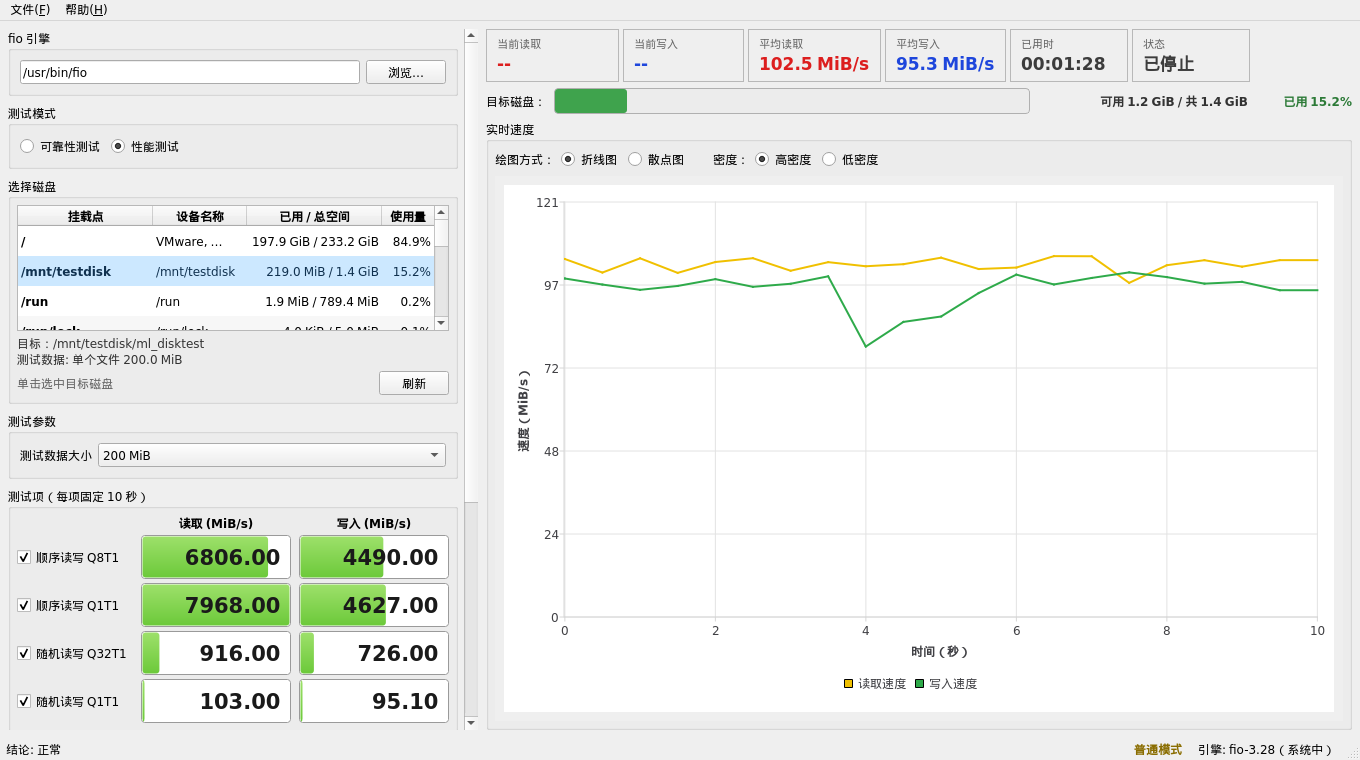
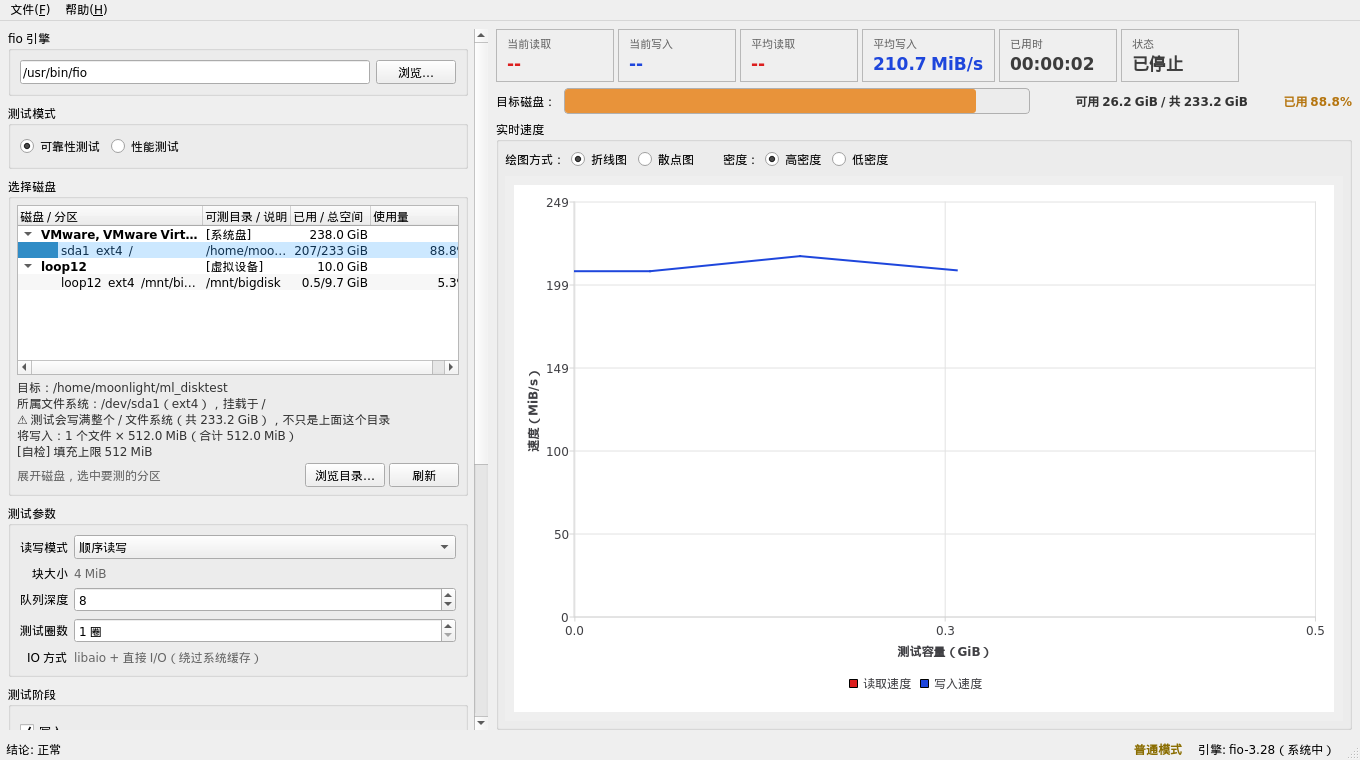
change charts and disk list

diff --git a/src/mainwindow.cpp b/src/mainwindow.cpp
@@ -502,7 +502,10 @@ void MainWindow::buildDrivePanel(QWidget *driveBox)
         "QTreeWidget::item:selected { background: #cce8ff; color: #10314f; }"
         "QTreeWidget::item:selected:active { background: #b6dcff; color: #10314f; }"));
     m_driveTree->header()->setSectionResizeMode(0, QHeaderView::Interactive);
-    m_driveTree->header()->resizeSection(0, 148);
+    // 185：去掉 "PhysicalDriveN" 前缀之后，第一列装的就是型号本身，
+    // 实测常见型号（"Predator SSD GM7000 1TB" / "UMIS RPJYJ1T24MLR1HWY"）
+    // 连树形缩进大约要 170~185 px 才不被省略号截掉。仍然是 Interactive，用户可以拖。
+    m_driveTree->header()->resizeSection(0, 185);
     m_driveTree->header()->setSectionResizeMode(1, QHeaderView::Stretch);
     m_driveTree->header()->setSectionResizeMode(2, QHeaderView::ResizeToContents);
     m_driveTree->header()->setSectionResizeMode(3, QHeaderView::ResizeToContents);
@@ -1011,7 +1014,9 @@ bool MainWindow::refreshDriveList(bool startup)
     for (const DiskEntry &disk : disks) {
         // ---- 第一层：物理磁盘，只当分组标题 ----
         auto *diskItem = new QTreeWidgetItem(m_driveTree);
-        diskItem->setText(0, disk.nameLine());
+        // 第一列只放型号：设备名（PhysicalDrive0 / sda）对用户没意义，
+        // 却会把本来就不宽的第一列占掉一大半，把型号挤成省略号。
+        diskItem->setText(0, disk.modelLine());
         // 标记单独占一列：第一列宽度紧，写在里面会被省略号吃掉，
         // 而"[系统盘]"恰恰是防止顺手把系统盘写掉的那一眼。
         QStringList diskTags;
@@ -1026,7 +1031,10 @@ bool MainWindow::refreshDriveList(bool startup)
         diskFont.setBold(true);
         diskItem->setFont(0, diskFont);
 
+        // 设备名挪到悬停提示里 —— 要和磁盘管理 / lsblk 对照时看这里
         QStringList diskTips;
+        if (!disk.kernelName.isEmpty())
+            diskTips << kVolumeDeviceFmt.arg(disk.kernelName);
         if (!disk.model.isEmpty())
             diskTips << disk.model;
         if (disk.isSystemDisk)
@@ -3956,17 +3964,16 @@ void MainWindow::writeSelfTestReport()
     const QIcon windowIcon = QApplication::windowIcon();
     const bool iconGuard = !windowIcon.isNull() && !windowIcon.availableSizes().isEmpty();
 
-    // 折线抽稀步长的分档必须精确（<128GiB → 3，128GiB~1TiB → 5，≥1TiB → 10）
+    // 折线抽稀步长的分档必须精确（<256GiB → 5，256GiB~1TiB → 15，≥1TiB → 30）
     constexpr qint64 kGiB = 1024LL * 1024 * 1024;
     constexpr qint64 kTiB = 1024LL * kGiB;
     const struct { qint64 bytes; int want; QString note; } stepProbes[] = {
-        {100LL * kGiB,        3,  QStringLiteral("100 GiB")},
-        {127LL * kGiB,        3,  QStringLiteral("127 GiB")},
-        {128LL * kGiB,        5,  kReportStepProbe128GiB},
-        {256LL * kGiB,        5,  QStringLiteral("256 GiB")},
-        {1023LL * kGiB,       5,  QStringLiteral("1023 GiB")},
-        {1LL * kTiB,          10, kReportStepProbe1TiB},
-        {4LL * kTiB,          10, QStringLiteral("4 TiB")},
+        {100LL * kGiB,        5,  QStringLiteral("100 GiB")},
+        {255LL * kGiB,        5,  QStringLiteral("255 GiB（下边界前一档）")},
+        {256LL * kGiB,        15, kReportStepProbe256GiB},
+        {1023LL * kGiB,       15, QStringLiteral("1023 GiB")},
+        {1LL * kTiB,          30, kReportStepProbe1TiB},
+        {4LL * kTiB,          30, QStringLiteral("4 TiB")},
     };
     bool stepGuard = true;
     QStringList stepLines;

diff --git a/src/driveinfo.h b/src/driveinfo.h
@@ -63,9 +63,16 @@ struct DiskEntry
     /// 至少有一个文件系统能被测（否则整块盘在列表里就没有意义）。
     bool testable() const;
     /// "内核名 + 型号"，例如 "nvme0n1  Samsung SSD 990 PRO 1TB"。
-    /// 列表里第一列用这个 —— 标记（[系统盘] 之类）单独占一列，
-    /// 否则列宽一紧就先被省略号吃掉，而那恰恰是最该看见的东西。
+    /// **给自检报告用**（那边不缺宽度，设备名方便和磁盘管理工具对照）。
     QString nameLine() const;
+    /// 列表里磁盘那一行显示的东西：**只给型号**。
+    ///
+    /// 内核名（Windows 的 "PhysicalDrive0"、Linux 的 "sda"）不进列表 ——
+    /// "PhysicalDrive0" 对用户是个看不懂的 API 名字，却占掉第一列一大半宽度，
+    /// 把真正有用的型号挤成省略号。它现在只在鼠标悬停的 tooltip 里出现。
+    ///
+    /// 拿不到型号时只能退回内核名，否则这一行就整个空白。
+    QString modelLine() const;
     /// nameLine() 再加上 [系统盘] / [虚拟设备] 这些标记，给自检报告用（那边不缺宽度）。
     QString displayLine() const;
 };

diff --git a/src/main.cpp b/src/main.cpp
@@ -29,16 +29,16 @@
 int main(int argc, char *argv[])
 {
     QApplication app(argc, argv);
-    app.setApplicationName(QStringLiteral("qtfiogui"));
+    app.setApplicationName(QStringLiteral("disktest"));
 
     // 版本号只有 CMakeLists.txt 的 project(... VERSION) 一个来源，
     // 别在这里写死——写死就会出现"标题栏 2.2.7、--version 输出 2.0.0"这种不一致。
     app.setApplicationVersion(kAppVersion);
-    app.setOrganizationName(QStringLiteral("qtfiogui"));
+    app.setOrganizationName(QStringLiteral("disktest"));
     app.setWindowIcon(QIcon(QStringLiteral(":/logo-window.png")));
 
     // 结果 CSV 解析器的纯逻辑自检：不开窗口、不碰磁盘、不跑 fio。
-    // 写代码时用 `qtfiogui.exe --selftest-parse` 就能验规则，不用整盘测试。
+    // 写代码时用 `disktest.exe --selftest-parse` 就能验规则，不用整盘测试。
     if (argc > 1 && QString::fromLocal8Bit(argv[1]) == QLatin1String("--selftest-parse")) {
         QStringList lines;
         const bool ok = RunData::runParserSelfTest(&lines);

diff --git a/src/speedchart.cpp b/src/speedchart.cpp
@@ -329,13 +329,17 @@ int SpeedChart::autoStepForBytes(qint64 totalBytes)
 {
     // 按实际要写入/读取的数据量决定折线抽稀步长。
     // 盘越大点数越多，抽得越狠；散点图和 CSV 始终是全量。
+    //
+    //   不到 256 GiB        每 5 个点画 1 个
+    //   256 GiB ~ 1 TiB     每 15 个点画 1 个
+    //   1 TiB 及以上        每 30 个点画 1 个
     constexpr qint64 kGiB = 1024LL * 1024 * 1024;
     constexpr qint64 kTiB = 1024LL * kGiB;
     if (totalBytes >= kTiB)
-        return 10;
-    if (totalBytes >= 128 * kGiB)
-        return 5;
-    return 3;
+        return 30;
+    if (totalBytes >= 256 * kGiB)
+        return 15;
+    return 5;
 }
 void SpeedChart::setTimeAxis(double seconds)
 {

diff --git a/src/mainwindow.h b/src/mainwindow.h
@@ -71,7 +71,7 @@ public:
     void setSelfTestScatter(bool scatter);
     /// 自检时只跑读取阶段（用来验证「有文件才能只读」这条路径）。
     void setSelfTestReadOnly(bool readOnly);
-    /// 自检：把折线图切到低密度（每 3 点画 1 点）。
+    /// 自检：把折线图切到低密度（按数据量自动抽稀）。
     void setSelfTestLowDensity(bool low);
     /// 自检：测试圈数。
     void setSelfTestRounds(int rounds);

diff --git a/src/driveinfo.cpp b/src/driveinfo.cpp
@@ -532,6 +532,12 @@ QString DiskEntry::nameLine() const
     return kernelName + QStringLiteral("  ") + model;
 }
 
+QString DiskEntry::modelLine() const
+{
+    // 型号是这一行唯一该显示的东西；没有型号才退回内核名，免得整行空白
+    return model.isEmpty() ? kernelName : model;
+}
+
 QString DiskEntry::displayLine() const
 {
     QString line = nameLine();

diff --git a/docs/readme.md b/docs/readme.md
@@ -105,19 +105,21 @@
 
 | 数据量 | 步长 |
 | --- | --- |
-| < 128 GiB | 每 **3** 个点画 1 个 |
-| 128 GiB ~ 1 TiB | 每 **5** 个点画 1 个 |
-| ≥ 1 TiB | 每 **10** 个点画 1 个 |
+| < 256 GiB | 每 **5** 个点画 1 个 |
+| 256 GiB ~ 1 TiB | 每 **15** 个点画 1 个 |
+| ≥ 1 TiB | 每 **30** 个点画 1 个 |
 
 界面上的步长提示已经不显示了（需求：移除低密度提示），分档只影响曲线的疏密。
 自检对分档边界有精确断言：
 
 ```
 折线抽稀步长（自动分档）: PASS
-    127 GiB → 每 3 个点画 1 个  OK
-    128 GiB（下边界） → 每 5 个点画 1 个  OK
-    1023 GiB → 每 5 个点画 1 个  OK
-    1 TiB（下边界） → 每 10 个点画 1 个  OK
+    100 GiB → 每 5 个点画 1 个  OK
+    255 GiB（下边界前一档） → 每 5 个点画 1 个  OK
+    256 GiB（下边界） → 每 15 个点画 1 个  OK
+    1023 GiB → 每 15 个点画 1 个  OK
+    1 TiB（下边界） → 每 30 个点画 1 个  OK
+    4 TiB → 每 30 个点画 1 个  OK
 ```
 
 实测同一轮测试：
@@ -315,7 +317,7 @@
 - 「帮助 → 关于」：版本、作者、联系作者、**编译时间**、构建环境（Qt 版本 /
   提权或普通模式），下面接测试流程说明。
 - 版本号只有 **`CMakeLists.txt` 里 `project(... VERSION x.y.z)` 一个来源**，
-  编译期以 `QTFIOGUI_VERSION` 宏传进代码，标题栏和「关于」都取自它，改一处即可。
+  编译期以 `DISKTEST_VERSION` 宏传进代码，标题栏和「关于」都取自它，改一处即可。
 - 作者与联系方式是 `src/uitext.h` 顶部的 `kAuthor` / `kContact`，
   **默认是占位符，请改成你自己的**。
 
@@ -498,7 +500,7 @@ CSV 里存的是**整轮**（写入 + 读取）的数据，不是只有最后一
 解析规则本身有独立的纯逻辑自检（不开窗口、不碰磁盘、不跑 fio）：
 
 ```
-build\qtfiogui.exe --selftest-parse
+build\disktest.exe --selftest-parse
 ```
 
 它覆盖：性能格式、老格式兼容、`item/pass` 归位、分阶段平均值取值、
@@ -715,7 +717,7 @@ build.bat help                               全部用法
 **机制**：这台机器上的 `build.ninja` 里，编译规则是
 
 ```
-build CMakeFiles\qtfiogui.dir\src\mainwindow.cpp.obj: CXX_COMPILER__qtfiogui_unscanned_Release ...
+build CMakeFiles\disktest.dir\src\mainwindow.cpp.obj: CXX_COMPILER__disktest_unscanned_Release ...
   deps = gcc
 ```
 
@@ -781,7 +783,7 @@ cmake --build build --target package      # 产出 build\dist
 
 ```
 dist/
-  qtfiogui.exe                主程序（含图标）
+  disktest.exe                主程序（含图标）
   Qt6Core/Gui/Widgets/Charts/... .dll
   platforms/qwindows.dll      平台插件（少了它 Qt 起不来）
   styles/ imageformats/ iconengines/ networkinformation/ tls/ generic/
@@ -806,7 +808,7 @@ Qt 是 `/MD` 构建的，所以本程序必须跟着动态链接 CRT（不能静
 sudo apt install build-essential cmake ninja-build qt6-base-dev libqt6charts6-dev fio
 cmake -S . -B build-linux -G Ninja -DCMAKE_BUILD_TYPE=Release
 cmake --build build-linux -j
-./build-linux/qtfiogui
+./build-linux/disktest
 ```
 
 | 依赖 | 要求 | Ubuntu 22.04 (jammy) 里的包 |
@@ -835,7 +837,7 @@ cmake --build build-linux -j
 没有图形界面的机器（服务器 / CI）上跑自检：
 
 ```bash
-QT_QPA_PLATFORM=offscreen ./build-linux/qtfiogui --selftest \
+QT_QPA_PLATFORM=offscreen ./build-linux/disktest --selftest \
     --outdir /tmp/st --selftest-target /mnt/testdisk --selftest-fill-limit 200
 ```
 
@@ -991,13 +993,26 @@ btrfs 子卷），而"我想测这块盘"跟它挂在哪儿没有关系。所以
 
 ```
 磁盘 / 分区              可测目录 / 说明    已用 / 总空间   使用量
-▼ sda  VMware, V...     [系统盘]          238.0 GiB
-    sda1  ext4  /        /home/moonli...   198/233 GiB    84.8%
-▼ nvme0n1  Samsung...                     931 GiB
-    nvme0n1p2  ext4  /   /var/tmp          560/931 GiB    60.2%
-  loop12                 [虚拟设备]         1.5 GiB
+▼ VMware, VMware Virtual S   [系统盘]        238.0 GiB
+    sda1  ext4  /            /home/moonli... 198/233 GiB    84.8%
+▼ Samsung SSD 990 PRO 1TB                   931 GiB
+    nvme0n1p2  ext4  /       /var/tmp        560/931 GiB    60.2%
+  loop12                     [虚拟设备]       1.5 GiB
     loop12  ext4  /mnt/testdisk  /mnt/testdisk  0.1/1.4 GiB  6.3%
 ```
+
+**磁盘那一行只显示型号**，设备名（Windows 的 `PhysicalDrive0`、Linux 的 `sda`）
+不进列表 —— 它对用户没意义，却占掉第一列一大半宽度，把型号挤成省略号。
+要和"磁盘管理"或 `lsblk` 对照时，把鼠标停在那一行上：
+
+```
+设备: PhysicalDrive0
+UMIS RPJYJ1T24MLR1HWY
+[系统盘]
+```
+
+（拿不到型号的盘只能退回显示设备名，否则这一行整个是空白。）
+自检报告里仍然是「设备名 + 型号」——那边不缺宽度，而且排查问题时设备名有用。
 
 选中的永远是**文件系统**那一层 —— 本工具只能测文件系统（裸设备一律拒绝）。
 上面那层只是分组标题（不可选），测不了的分区（只读 / 未挂载 / 没有可写目录）
@@ -1157,12 +1172,26 @@ read_bytes: 8044675072     ← 数据明明在
 > 性能测试**不受影响**：它固定单文件（见 `planFilesForSize`），
 > `openfiles` 对它没有意义，job 里也不写这一行。
 
-> **还没做的**：这个改动对"波动到底小了多少"的量化对比。
-> 在开发机上用 256 MiB 的小数据集 + fio 自带的 `--write_bw_log` 试过一次，
-> **结论不可用**：吞吐跑到 2.5~5 GiB/s，说明这点数据整个被盘的缓存吃掉了，
-> 500 ms 的采样间隔比效应本身还大，测出来的是噪声。
-> 要量准得用一块远大于缓存的数据集 + 真实的机械盘 / U 盘，
-> 也就是用户实际遇到波动的场景。
+> **关于"波动到底小了多少"**：三次尝试都没能在测试机上量出差别，结论如实记在这里。
+>
+> 1. 开发机、256 MiB 小数据集 + fio 的 `--write_bw_log`：**作废** ——
+>    吞吐跑到 2.5~5 GiB/s，这点数据整个被盘的缓存吃掉了，采样间隔比效应还大。
+> 2. Ubuntu 上的 10 GiB 回环盘、4 × 2 GiB（数据集远大于内存，采样 500 ms）：
+>    两臂**没有区别**（波动 136% vs 136%，最小采样都掉到 8~24 MiB/s）。
+>    原因：回环设备后端是宿主页缓存 —— fio 的 `O_DIRECT` 落到 loop 驱动之后
+>    又变成了对 backing file 的缓冲写，测到的是宿主的写回行为。
+> 3. 换成真实 ext4（`/home`，`O_DIRECT` 直达块层）、同样 4 × 2 GiB：
+>    仍然**没有区别**（波动 117%~164%，四条曲线的最小采样都一样低）。
+>
+> 也就是说：在这两种存储上，**残余的波动来自平台的周期性停顿**
+> （四条曲线都有，与打开几个文件无关），而不是文件并行度。
+> 这也说得通 —— 交错的写入对**闪存 / 虚拟磁盘**几乎没有代价（没有寻道），
+> 对**机械盘和 U 盘**才会有明显的寻道与缓存抖动，也就是用户实际看到波动的场景。
+>
+> **所以这个改动是否真的压平了曲线，需要在看到波动的那块盘上复测**：
+> 用同一个 job 跑 `fio ... /tmp/ab.fio` 与 `fio --openfiles=1 ... /tmp/ab.fio`，
+> 加 `--write_bw_log=x --log_avg_msec=500`，比较两臂 `x_write_bw.log` 的
+> min/avg/max。在闪存上预期看不到差别，在机械盘上才应该看得到。
 
 ---
 
@@ -1172,7 +1201,7 @@ read_bytes: 8044675072     ← 数据明明在
 只写一小部分就能走完整流程：
 
 ```powershell
-build\qtfiogui.exe --selftest `
+build\disktest.exe --selftest `
     --fio third_party\fio\fio.exe --outdir build\selftest `
     --selftest-target G:/ --selftest-fill-limit 3000
 ```
@@ -1212,7 +1241,7 @@ build\qtfiogui.exe --selftest `
 ## 7. 目录结构
 
 ```
-qtfiogui/
+disktest/
 ├─ LICENSE                  本程序自身的许可证（GPL-3.0 官方原版全文）
 ├─ THIRD-PARTY-NOTICES.md   Qt / fio / MSVC 运行库的许可证说明
 ├─ licenses/                第三方许可证文本（随发布包一起走）
@@ -1264,14 +1293,14 @@ qtfiogui/
 └─ _selftest/               【生成】手工跑自检时的默认输出目录
 ```
 
-**运行时**只需要 `qtfiogui.exe` + Qt DLL + `fio/fio.exe`；`docs/`、`tools/`、`src/` 都不进 `build\dist`。
+**运行时**只需要 `disktest.exe` + Qt DLL + `fio/fio.exe`；`docs/`、`tools/`、`src/` 都不进 `build\dist`。
 `build\dist` 里额外带 `licenses/`（含 `THIRD-PARTY-NOTICES.md`）——**这是分发二进制时必须有的**，
 `build.bat package` 打完包会自动核对，缺了直接报错。
 
 > `third_party/fio/` 里**不含** fio 上游的 `examples/`（55 个样例 `.fio`）。
 > 程序一个都不读，打包时本来就排除，放在仓库里只是噪音；需要看示例去 fio 上游拿。
 
-**运行时**只需要 `qtfiogui.exe` + Qt DLL + `fio/fio.exe`；`docs/`、`tools/`、`src/` 都不进 `build\dist`。
+**运行时**只需要 `disktest.exe` + Qt DLL + `fio/fio.exe`；`docs/`、`tools/`、`src/` 都不进 `build\dist`。
 
 ### 启动状态是固定的，不记忆
 

diff --git a/README.md b/README.md
@@ -34,7 +34,7 @@
 ## 快速开始
 
 1. **下载发布包**，解压到任意目录（路径带中文也没问题）。
-2. 双击 **`qtfiogui.exe`**。
+2. 双击 **`disktest.exe`**。
    不需要另外装 Qt，也不需要装 VC++ 运行库——发布包是自足的。
 3. 在左侧「选择磁盘」列表里展开一块盘，**单击选中它下面的那个分区**（文件系统）。
    列表里灰色的行表示测不了（只读 / 未挂载 / 没有可写目录）。
@@ -150,14 +150,14 @@ build.bat package
 sudo apt install build-essential cmake ninja-build qt6-base-dev libqt6charts6-dev fio
 cmake -S . -B build-linux -G Ninja -DCMAKE_BUILD_TYPE=Release
 cmake --build build-linux -j
-./build-linux/qtfiogui
+./build-linux/disktest
 ```
 
 Linux 上不用自备 fio，发行版装的 `/usr/bin/fio` 就能用。
 没有图形界面的机器（服务器 / CI）上跑自检：
 
 ```bash
-QT_QPA_PLATFORM=offscreen ./build-linux/qtfiogui --selftest \
+QT_QPA_PLATFORM=offscreen ./build-linux/disktest --selftest \
     --outdir /tmp/st --selftest-target /mnt/testdisk --selftest-fill-limit 200
 ```
 
